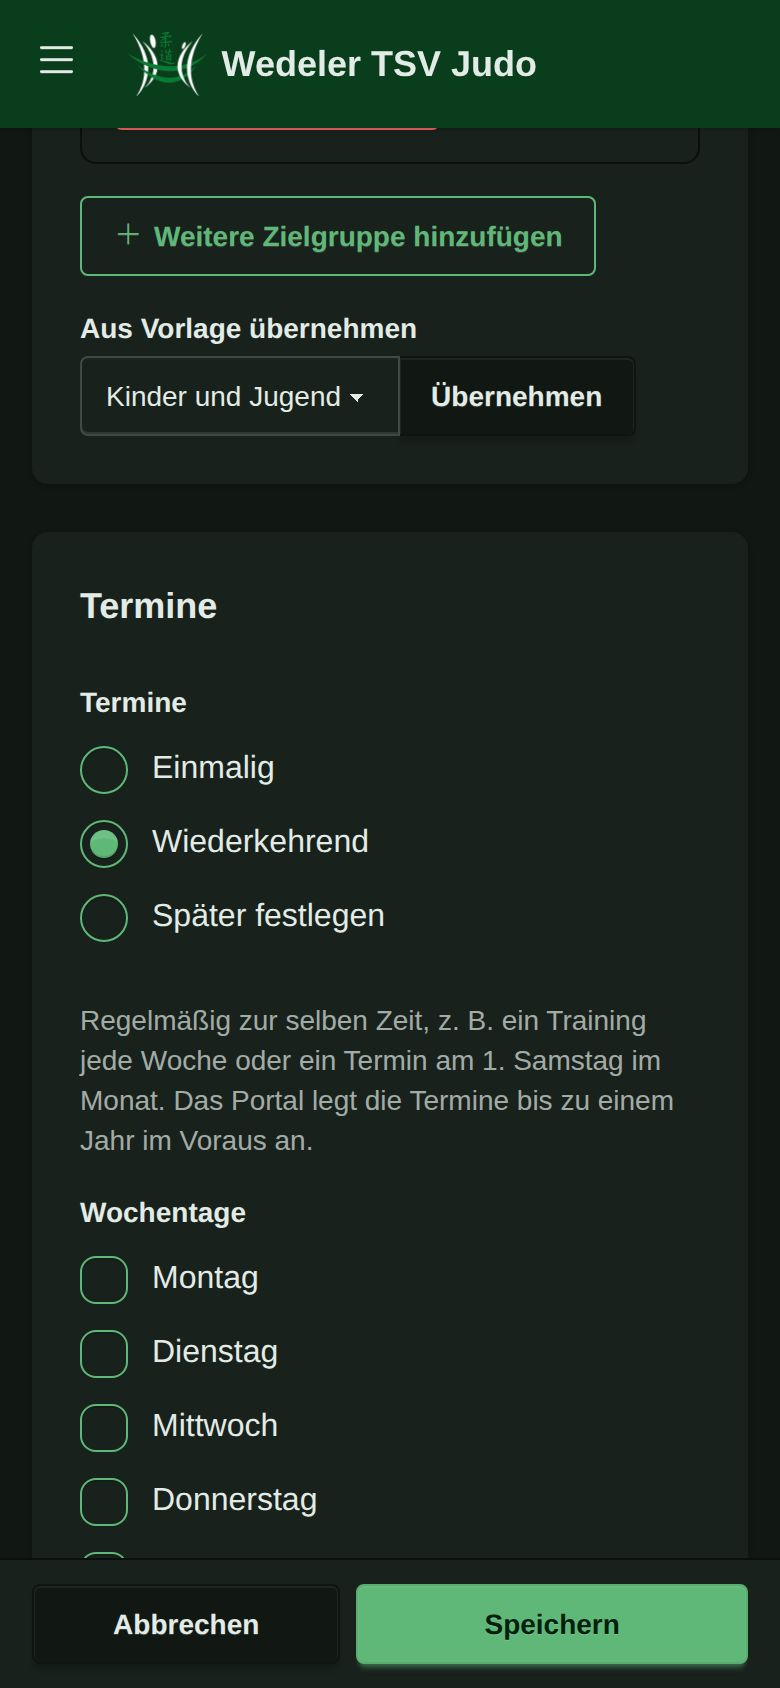
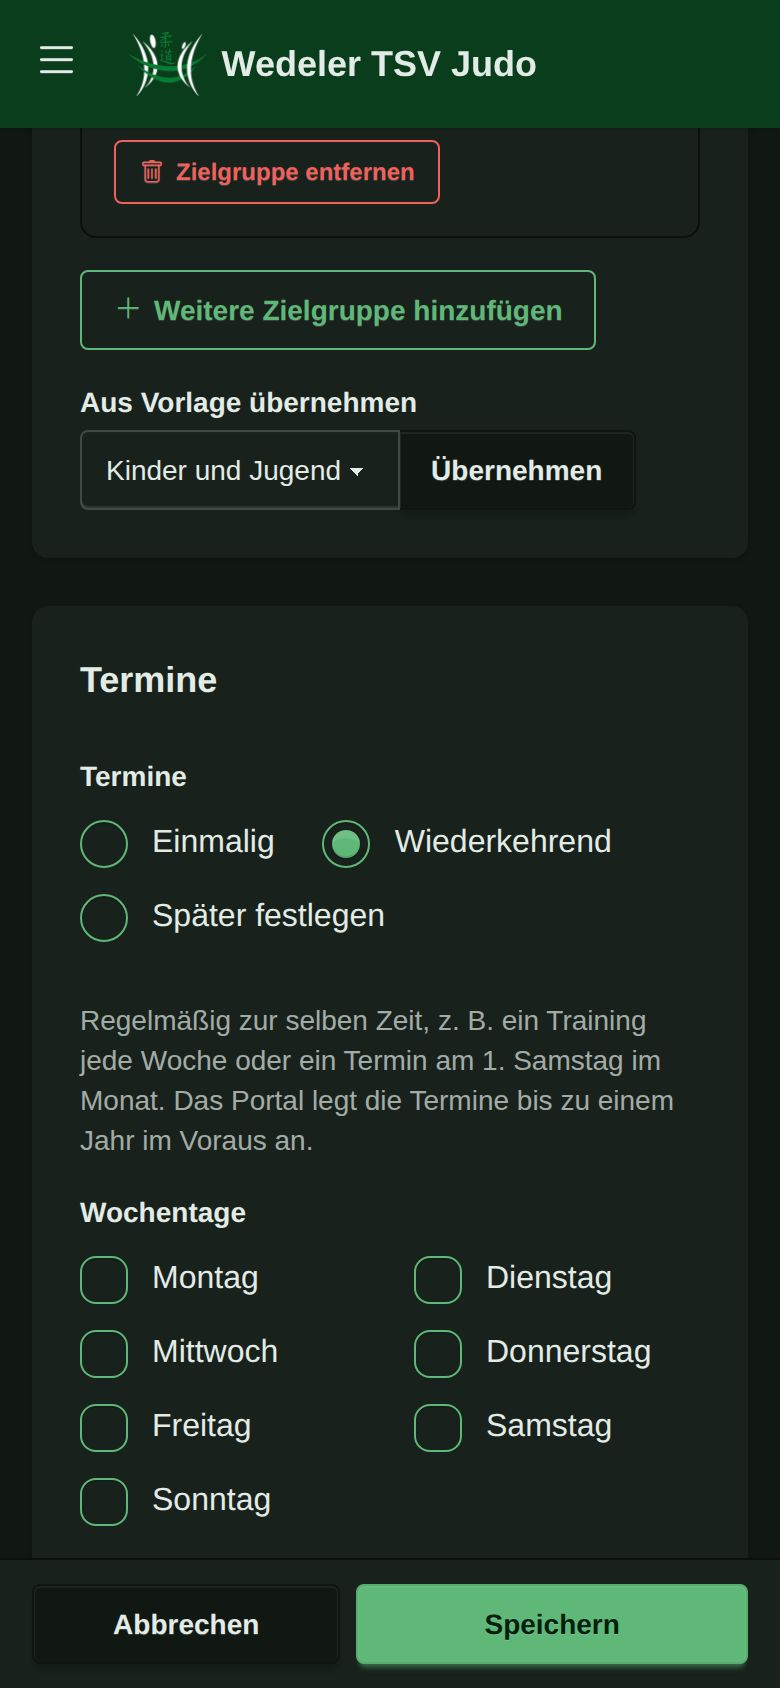
feat: Formulare – Zeiträume und zusammengehörige Felder nebeneinander, Optionen in Spalten
- Formulare nennen zusammengehörige Felder im Attribut `layout`; ab Tablet-Breite
  stehen sie in einer Zeile: von–bis, gültig ab–bis, Uhrzeit von–bis,
  Anmeldung ab–Anmeldeschluss, Alter/Gewicht/Graduierung ab–bis, Eintritt–Austritt,
  Vor- und Nachname, E-Mail und Telefon, Graduierung und Gewicht.
- Gilt für alle Formulare über `div.html` und für Formulare mit Abschnitten über
  den Tag `field_rows` (Veranstaltung anlegen/bearbeiten, Gäste). Beim Zeitplan
  rutschen die Felder nicht mehr durcheinander, wenn der Rhythmus ein Feld ausblendet.
- Checkboxen neben einem Eingabefeld stehen auf dessen Höhe.
- Optionsgruppen: bis drei Optionen nebeneinander, vier in zwei, mehr in drei Spalten
  (z. B. Wochentage, Veranstaltungsarten, Rollen).
- ADR 0017 ergänzt.

Claude-Session: https://claude.ai/code/session_017LHgXea5AxfRcr57bsDwjB

diff --git a/portal/events/templates/events/event_create.html b/portal/events/templates/events/event_create.html
@@ -1,4 +1,5 @@
 {% extends "layouts/page.html" %}
+{% load form_layout %}
 {% load static %}
 {% block title %}Veranstaltung anlegen{% endblock %}
 {% block width %}narrow{% endblock %}
@@ -9,7 +10,7 @@
 <form method="post" class="flex flex-col gap-6" data-event-form>{% csrf_token %}
   {{ form.non_field_errors }}
   <section class="card bg-base-100 shadow-sm" aria-labelledby="h-veranstaltung"><div class="card-body gap-4">
-    <div class="flex flex-col gap-2">{% for field in form.event_fields %}{{ field.as_field_group }}{% endfor %}</div>
+    {% field_rows form form.event_fields as rows %}<div class="flex flex-col gap-2">{% include "django/forms/_rows.html" %}</div>
   </div></section>
 
   {% include "events/_target_groups.html" %}
@@ -19,20 +20,20 @@
     {{ form.dates.as_field_group }}
     <div class="flex flex-col gap-2" data-dates-for="once">
       <p class="text-sm text-base-content/70">Ein Termin, z. B. ein Wettkampf oder ein Lehrgang über das Wochenende. Weitere Termine kannst du danach ergänzen.</p>
-      <div class="grid gap-x-4 sm:grid-cols-2">{% for field in form.once_fields %}{{ field.as_field_group }}{% endfor %}</div>
+      {% field_rows form form.once_fields as rows %}<div class="flex flex-col gap-2">{% include "django/forms/_rows.html" %}</div>
     </div>
     <div class="flex flex-col gap-2" data-dates-for="weekly">
       <p class="text-sm text-base-content/70">Regelmäßig zur selben Zeit, z. B. ein Training jede Woche oder ein Termin am 1. Samstag im Monat. Das Portal legt die Termine bis zu einem Jahr im Voraus an.</p>
       {{ form.weekdays.as_field_group }}
       {{ form.repeat.as_field_group }}
-      <div class="grid gap-x-4 sm:grid-cols-2">{% for field in form.weekly_fields %}{% if field.name != "weekdays" and field.name != "repeat" %}{{ field.as_field_group }}{% endif %}{% endfor %}</div>
+      {% field_rows form form.weekly_fields exclude="weekdays repeat" as rows %}<div class="flex flex-col gap-2">{% include "django/forms/_rows.html" %}</div>
     </div>
     <p class="text-sm text-base-content/70" data-dates-for="later">Die Termine legst du später auf der Veranstaltung an.</p>
   </div></section>
 
   <section class="card bg-base-100 shadow-sm" aria-labelledby="h-team" data-dates-for="once weekly"><div class="card-body gap-4">
     <div><h2 class="card-title" id="h-team">Übungsleiter (optional)</h2><p class="text-sm text-base-content/70">Bei wiederkehrenden Terminen wird die Person fest eingeteilt. Weitere trägst du danach ein.</p></div>
-    <div class="grid gap-x-4 sm:grid-cols-2">{% for field in form.team_fields %}{{ field.as_field_group }}{% endfor %}</div>
+    {% field_rows form form.team_fields as rows %}<div class="flex flex-col gap-2">{% include "django/forms/_rows.html" %}</div>
   </div></section>
 
   <div class="action-bar"><button type="submit" class="btn btn-primary">Speichern</button><a class="btn" href="{% url 'event_list' %}">Abbrechen</a></div>

diff --git a/portal/events/templates/events/event_detail.html b/portal/events/templates/events/event_detail.html
@@ -64,7 +64,7 @@
     </ul>
     {% else %}<p class="mt-2 text-sm text-base-content/70">Noch keine festen Übungsleiter.</p>{% endif %}
     <form method="post" action="{% url 'schedule_team' event.pk schedule.pk %}" class="mt-2 flex flex-col gap-2">{% csrf_token %}
-      <div class="grid gap-x-4 sm:grid-cols-2">{{ schedule.team_form }}</div>
+      {{ schedule.team_form }}
       <div><button class="btn btn-primary" type="submit">Fest einteilen</button></div>
     </form>
   </div>
@@ -93,7 +93,7 @@
   {% if can_manage and occurrences %}
   <form method="post" action="{% url 'event_cancel_range' event.pk %}" class="flex flex-col gap-2 border-t border-base-300 pt-4">{% csrf_token %}
     <h3 class="font-semibold">Termine absagen (z. B. Ferien)</h3>
-    <div class="grid gap-x-4 sm:grid-cols-2">{{ cancel_form }}</div>
+    {{ cancel_form }}
     <div><button class="btn btn-outline btn-error" type="submit"><i class="bi bi-x-circle" aria-hidden="true"></i> Termine in diesem Zeitraum absagen</button></div>
   </form>
   {% endif %}

diff --git a/portal/templates/django/forms/widgets/multiple_input.html b/portal/templates/django/forms/widgets/multiple_input.html
@@ -1,4 +1,4 @@
-{% with id=widget.attrs.id %}<div{% if id %} id="{{ id }}"{% endif %} class="flex flex-col gap-2 py-1{% if widget.attrs.class %} {{ widget.attrs.class }}{% endif %}">{% for group, options, index in widget.optgroups %}{% if group %}
+{% comment %}Optionsgruppe (Checkboxen, Radios): bis drei Optionen nebeneinander, vier in zwei Spalten, mehr in drei.{% endcomment %}{% with id=widget.attrs.id count=widget.optgroups|length %}<div{% if id %} id="{{ id }}"{% endif %} class="{% if count == 4 %}grid grid-cols-2 gap-x-6 gap-y-2{% elif count > 4 %}grid grid-cols-2 gap-x-6 gap-y-2 sm:grid-cols-3{% else %}flex flex-wrap gap-x-6 gap-y-2{% endif %} py-1{% if widget.attrs.class %} {{ widget.attrs.class }}{% endif %}">{% for group, options, index in widget.optgroups %}{% if group %}
   <div><span class="fieldset-legend text-sm">{{ group }}</span>{% endif %}{% for option in options %}<div>
     {% include option.template_name with widget=option %}</div>{% endfor %}{% if group %}
   </div>{% endif %}{% endfor %}

diff --git a/portal/events/templates/events/guest_register.html b/portal/events/templates/events/guest_register.html
@@ -1,4 +1,5 @@
 {% extends "base.html" %}
+{% load form_layout %}
 {% block title %}Anmeldung: {{ event.title }}{% endblock %}
 {% block content %}
 <div class="mx-auto max-w-2xl">
@@ -14,9 +15,7 @@
     <form method="post" class="flex flex-col gap-4">{% csrf_token %}
       {{ form.non_field_errors }}
       {{ form.occurrences.as_field_group }}
-      <div class="grid gap-x-4 sm:grid-cols-2">
-        {% for field in form %}{% if field.name not in "occurrences consent website" %}{{ field.as_field_group }}{% endif %}{% endfor %}
-      </div>
+      {% field_rows form exclude="occurrences consent website" as rows %}<div class="flex flex-col gap-2">{% include "django/forms/_rows.html" %}</div>
       <div class="hidden" aria-hidden="true">{{ form.website.label_tag }}<input type="text" name="website" id="id_website" tabindex="-1" autocomplete="off"></div>
       {% include "events/_privacy.html" %}
       {{ form.consent.as_field_group }}

diff --git a/portal/events/templates/events/event_edit.html b/portal/events/templates/events/event_edit.html
@@ -1,4 +1,5 @@
 {% extends "layouts/page.html" %}
+{% load form_layout %}
 {% load static %}
 {% block title %}{{ event.title }} bearbeiten{% endblock %}
 {% block width %}narrow{% endblock %}
@@ -8,7 +9,7 @@
 {% block page %}
 <form method="post" class="flex flex-col gap-6">{% csrf_token %}
   <section class="card bg-base-100 shadow-sm" aria-labelledby="h-veranstaltung"><div class="card-body gap-4">
-    {% for field in form %}{% if field.name != "target_mode" %}{{ field.as_field_group }}{% endif %}{% endfor %}
+    {% field_rows form exclude="target_mode" as rows %}<div class="flex flex-col gap-2">{% include "django/forms/_rows.html" %}</div>
   </div></section>
   {% include "events/_target_groups.html" %}
   <div class="action-bar"><button type="submit" class="btn btn-primary">Speichern</button><a class="btn" href="{% url 'event_detail' event.pk %}">Abbrechen</a></div>

diff --git a/portal/templates/django/forms/div.html b/portal/templates/django/forms/div.html
@@ -1,12 +1,9 @@
-{{ errors }}
+{% load form_layout %}{{ errors }}
 {% if errors and not fields %}
   <div>{% for field in hidden_fields %}{{ field }}{% endfor %}</div>
 {% endif %}
-<div class="flex flex-col gap-2">
-{% for field, errors in fields %}
-  {{ field.as_field_group }}
-  {% if forloop.last %}{% for field in hidden_fields %}{{ field }}{% endfor %}{% endif %}
-{% endfor %}
+{% field_rows form as rows %}<div class="flex flex-col gap-2">
+{% include "django/forms/_rows.html" %}{% if fields %}{% for field in hidden_fields %}{{ field }}{% endfor %}{% endif %}
 </div>
 {% if not fields and not errors %}
   {% for field in hidden_fields %}{{ field }}{% endfor %}

diff --git a/portal/events/templates/events/guest_page.html b/portal/events/templates/events/guest_page.html
@@ -61,7 +61,7 @@
   <section class="card mb-6 bg-base-100 shadow-sm" aria-labelledby="h-daten"><div class="card-body gap-4">
     <h2 class="card-title" id="h-daten">Deine Daten</h2>
     <form method="post" class="flex flex-col gap-4">{% csrf_token %}
-      <div class="grid gap-x-4 sm:grid-cols-2">{% for field in form %}{{ field.as_field_group }}{% endfor %}</div>
+      {{ form }}
       <div><button class="btn btn-primary" name="action" value="save">Speichern</button></div>
     </form>
     {% include "events/_privacy.html" %}

diff --git a/portal/templates/django/forms/_rows.html b/portal/templates/django/forms/_rows.html
@@ -1,0 +1,2 @@
+{% for row in rows %}{% if row.grid %}<div class="{{ row.grid }}">{% for field in row.fields %}{% if row.mixed and field.widget_type == "checkbox" %}<div class="sm:pt-9">{{ field.as_field_group }}</div>{% else %}{{ field.as_field_group }}{% endif %}{% endfor %}</div>{% else %}{{ row.fields.0.as_field_group }}{% endif %}
+{% endfor %}

diff --git a/portal/events/forms.py b/portal/events/forms.py
@@ -63,6 +63,8 @@ CRITERIA_WIDGETS = {
 class CriteriaForm(forms.ModelForm):
     """Kriterien einer Zielgruppe oder Vorlage, mit Prüfung von/bis."""
 
+    layout = (("min_age", "max_age"), ("min_weight", "max_weight"), ("min_grade", "max_grade"))
+
     genders = forms.MultipleChoiceField(
         label="Geschlecht",
         choices=Gender.choices,
@@ -166,6 +168,12 @@ OccurrenceTargetGroupFormSet = forms.inlineformset_factory(
 
 
 class EventForm(forms.ModelForm):
+    layout: tuple[tuple[str, ...], ...] = (
+        ("event_type", "location"),
+        ("capacity", "team_counts"),
+        ("weight_required", "guests_welcome"),
+    )
+
     class Meta:
         model = Event
         fields = (
@@ -197,6 +205,13 @@ class EventForm(forms.ModelForm):
 
 
 RHYTHM_FIELDS = ("repeat", "interval", "week_of_month")
+# Zeitplan: Rhythmus-Wert, Uhrzeit, Gültigkeit und Anmeldefenster jeweils nebeneinander (Formular-``layout``)
+RHYTHM_ROWS = (
+    ("interval", "week_of_month"),
+    ("start_time", "end_time"),
+    ("valid_from", "valid_until"),
+    ("opens_hours_before", "closes_hours_before"),
+)
 
 
 def _rhythm_widgets() -> dict[str, forms.Widget]:
@@ -223,6 +238,14 @@ def _clean_rhythm(form: forms.BaseForm, data: dict[str, Any]) -> None:
 
 class EventCreateForm(EventForm):
     """Veranstaltung anlegen und gleich die Termine festlegen: einmalig, wiederkehrend oder später (ADR 0012)."""
+
+    layout = (
+        *EventForm.layout,
+        ("starts_at", "ends_at"),
+        ("registration_opens_at", "registration_closes_at"),
+        *RHYTHM_ROWS,
+        ("team_member", "team_role"),
+    )
 
     ONCE, WEEKLY, LATER = "once", "weekly", "later"
 
@@ -366,6 +389,8 @@ class EventCreateForm(EventForm):
 
 
 class ScheduleForm(forms.ModelForm):
+    layout = RHYTHM_ROWS
+
     class Meta:
         model = Schedule
         fields = (
@@ -404,6 +429,8 @@ class ScheduleForm(forms.ModelForm):
 
 class OccurrenceForm(forms.ModelForm):
     """Termin von Hand (einmalig oder zusätzlich) bzw. Abweichung an einem Termin."""
+
+    layout = (("starts_at", "ends_at"), ("registration_opens_at", "registration_closes_at"))
 
     class Meta:
         model = Occurrence
@@ -464,6 +491,8 @@ class NoteForm(forms.ModelForm):
 
 
 class CancelRangeForm(forms.Form):
+    layout = (("first", "last"),)
+
     first = forms.DateField(label="Von", widget=DateInput())
     last = forms.DateField(label="Bis", widget=DateInput())
 
@@ -496,6 +525,8 @@ class RegisterForm(forms.Form):
 class TeamForm(forms.Form):
     """Team eines Termins oder Standard-Team eines Zeitplans: Mitglied und Rolle."""
 
+    layout = (("member", "role"),)
+
     member = forms.ModelChoiceField(label="Mitglied", queryset=Member.objects.none())
     role = forms.ModelChoiceField(label="Rolle", queryset=ParticipantRole.objects.none())
 
@@ -518,6 +549,8 @@ class EventTypeForm(forms.ModelForm):
 
 
 class ParticipantRoleForm(forms.ModelForm):
+    layout = (("is_team", "is_billable"), ("is_default", "is_active"))
+
     user_roles = forms.MultipleChoiceField(
         label="Benutzerrollen",
         choices=[(Role.TRAINER.value, Role.TRAINER.label), (Role.DEPARTMENT_HEAD.value, Role.DEPARTMENT_HEAD.label)],
@@ -560,6 +593,14 @@ class ConfirmForm(forms.Form):
 
 class GuestForm(forms.ModelForm):
     """Daten eines Gastes: vom Team eingetragen, über den Anmeldelink oder auf der Gast-Seite geändert."""
+
+    layout = (
+        ("first_name", "last_name"),
+        ("birth_year", "gender"),
+        ("grade", "weight"),
+        ("email", "phone"),
+        ("club", "guardian_name"),
+    )
 
     class Meta:
         model = Guest
@@ -679,6 +720,8 @@ class AttachmentForm(forms.Form):
 
 
 class ExportForm(forms.Form):
+    layout = (("start", "end"),)
+
     start = forms.DateField(label="Von", required=False, widget=DateInput())
     end = forms.DateField(label="Bis", required=False, widget=DateInput())
 

diff --git a/portal/core/templatetags/form_layout.py b/portal/core/templatetags/form_layout.py
@@ -1,0 +1,60 @@
+"""Felder eines Formulars in Zeilen: Was zusammengehört (von–bis, Vor- und Nachname), steht ab Tablet-Breite
+nebeneinander. Die Formulare nennen die Gruppen in ``layout``; ohne ``layout`` steht jedes Feld in einer Zeile."""
+
+from __future__ import annotations
+
+from dataclasses import dataclass
+from typing import Any
+
+from django import forms, template
+
+register = template.Library()
+
+# Klassen ausgeschrieben, damit Tailwind sie findet.
+GRID = {2: "grid gap-x-4 sm:grid-cols-2", 3: "grid gap-x-4 sm:grid-cols-3"}
+
+
+@dataclass
+class Row:
+    fields: list[forms.BoundField]
+
+    @property
+    def grid(self) -> str:
+        return GRID.get(len(self.fields), "")
+
+    @property
+    def mixed(self) -> bool:
+        """Checkbox neben einem Eingabefeld: die Checkbox rückt auf Höhe des Feldes (unter dessen Beschriftung)."""
+        kinds = {field.widget_type == "checkbox" for field in self.fields}
+        return len(self.fields) > 1 and len(kinds) == 2
+
+
+def rows(form: forms.BaseForm, names: list[str] | None = None) -> list[Row]:
+    """Zeilen aus den sichtbaren Feldern (oder nur ``names``, in Formular-Reihenfolge). Eine Gruppe aus ``layout``
+    steht dort, wo ihr erstes Feld steht; fehlen Felder der Gruppe, rücken die übrigen zusammen."""
+    visible = [field for field in form.visible_fields() if names is None or field.name in names]
+    by_name = {field.name: field for field in visible}
+    group_of = {name: group for group in getattr(form, "layout", ()) for name in group}
+    result: list[Row] = []
+    done: set[str] = set()
+    for field in visible:
+        if field.name in done:
+            continue
+        group = [by_name[name] for name in group_of.get(field.name, (field.name,)) if name in by_name]
+        done.update(member.name for member in group)
+        result.append(Row(group))
+    return result
+
+
+@register.simple_tag
+def field_rows(form: forms.BaseForm, fields: Any = None, exclude: str = "") -> list[Row]:
+    """``{% field_rows form as rows %}``; ``fields``: Liste gebundener Felder, ``exclude``: Namen mit Leerzeichen."""
+    names = [field.name for field in fields] if fields is not None else None
+    skip = set(exclude.split())
+    if skip:
+        names = [
+            field.name
+            for field in form.visible_fields()
+            if field.name not in skip and (names is None or field.name in names)
+        ]
+    return rows(form, names)

diff --git a/portal/core/tests/test_form_layout.py b/portal/core/tests/test_form_layout.py
@@ -1,0 +1,40 @@
+"""Felder nebeneinander: Gruppen aus ``layout`` werden zu Zeilen, fehlende Felder rücken zusammen."""
+
+from __future__ import annotations
+
+from django import forms
+
+from portal.core.templatetags.form_layout import field_rows, rows
+
+
+class PeriodForm(forms.Form):
+    layout = (("start", "end"), ("agree", "count"))
+
+    title = forms.CharField()
+    start = forms.DateField()
+    note = forms.CharField()
+    end = forms.DateField()
+    count = forms.IntegerField()
+    agree = forms.BooleanField()
+
+
+def names(result):
+    return [[field.name for field in row.fields] for row in result]
+
+
+def test_groups_stand_where_their_first_field_is():
+    result = rows(PeriodForm())
+    assert names(result) == [
+        ["title"],
+        ["start", "end"],
+        ["note"],
+        ["agree", "count"],
+    ]  # Reihenfolge in der Zeile wie in layout
+    assert result[1].grid == "grid gap-x-4 sm:grid-cols-2" and result[0].grid == ""
+    assert result[3].mixed and not result[1].mixed
+
+
+def test_subset_and_exclude_close_gaps():
+    form = PeriodForm()
+    assert names(field_rows(form, [form["end"], form["note"]])) == [["note"], ["end"]]
+    assert names(field_rows(form, exclude="title start agree")) == [["note"], ["end"], ["count"]]

diff --git a/portal/accounts/forms.py b/portal/accounts/forms.py
@@ -16,6 +16,8 @@ class RolesField(forms.MultipleChoiceField):
 
 
 class InvitationForm(forms.Form):
+    layout = (("first_name", "last_name"),)
+
     email = forms.EmailField(label="E-Mail")
     first_name = forms.CharField(label="Vorname", max_length=100, required=False)
     last_name = forms.CharField(label="Nachname", max_length=100, required=False)
@@ -41,6 +43,8 @@ class InvitationForm(forms.Form):
 class UserForm(forms.ModelForm):
     """Name und Rollen eines Benutzers (Benutzerverwaltung)."""
 
+    layout = (("first_name", "last_name"),)
+
     class Meta:
         model = User
         fields = ("first_name", "last_name")
@@ -52,6 +56,8 @@ class UserForm(forms.ModelForm):
 
 class ProfileForm(forms.ModelForm):
     """„Meine Daten“: Name und Telefon, die jeder Benutzer selbst pflegt."""
+
+    layout = (("first_name", "last_name"),)
 
     class Meta:
         model = User
